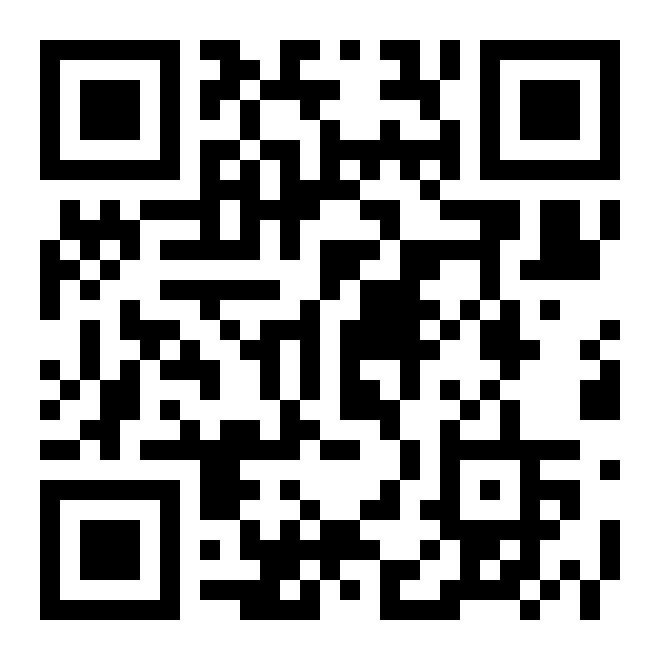
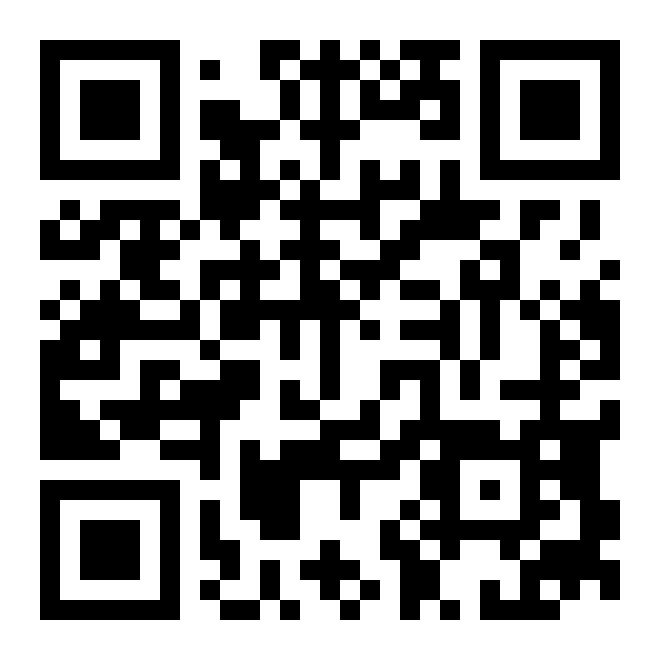
ixes

diff --git a/static/script.js b/static/script.js
@@ -1,4 +1,4 @@
-const socket = new WebSocket("ws://192.168.188.23:38543/ws");  
+const socket = new WebSocket("ws://192.168.188.23:43915/ws");  
 
 
 console.log('attempting websocket connection');

diff --git a/controller.go b/controller.go
@@ -21,10 +21,10 @@ func createQr(addr string) {
 		fmt.Printf("could not generate QRCode: %v", err)
 	}
 
-	// save file
 	if err := qrc.Save("./static/qrcode.jpeg"); err != nil {
 		fmt.Printf("could not save image: %v", err)
 	}
+
 }
 
 func parsesAdressToJs(addr string) {
@@ -50,8 +50,8 @@ type ClientMessage struct {
 }
 
 var upgrader = websocket.Upgrader{
-	ReadBufferSize:  1024,
-	WriteBufferSize: 1024,
+	ReadBufferSize:  128,
+	WriteBufferSize: 128,
 }
 
 var fileServer = http.FileServer(http.Dir("./static"))
@@ -129,12 +129,9 @@ func setupRoutes() {
 
 func main() {
 	var wg sync.WaitGroup
-	fmt.Println("startup")
 	setupRoutes()
 	wg.Add(1)
 	go func() {
-		//log.Fatal(http.ListenAndServe(":8080", nil))
-
 		listener, err := net.Listen("tcp", ":0")
 		if err != nil {
 			panic(err)
@@ -143,7 +140,7 @@ func main() {
 		addr := GetOutboundIP().String() + ":" + strconv.Itoa(listener.Addr().(*net.TCPAddr).Port)
 		parsesAdressToJs(addr)
 		createQr(addr)
-		fmt.Println("server is running", addr)
+		fmt.Println("server started", addr)
 		panic(http.Serve(listener, nil))
 
 	}()
